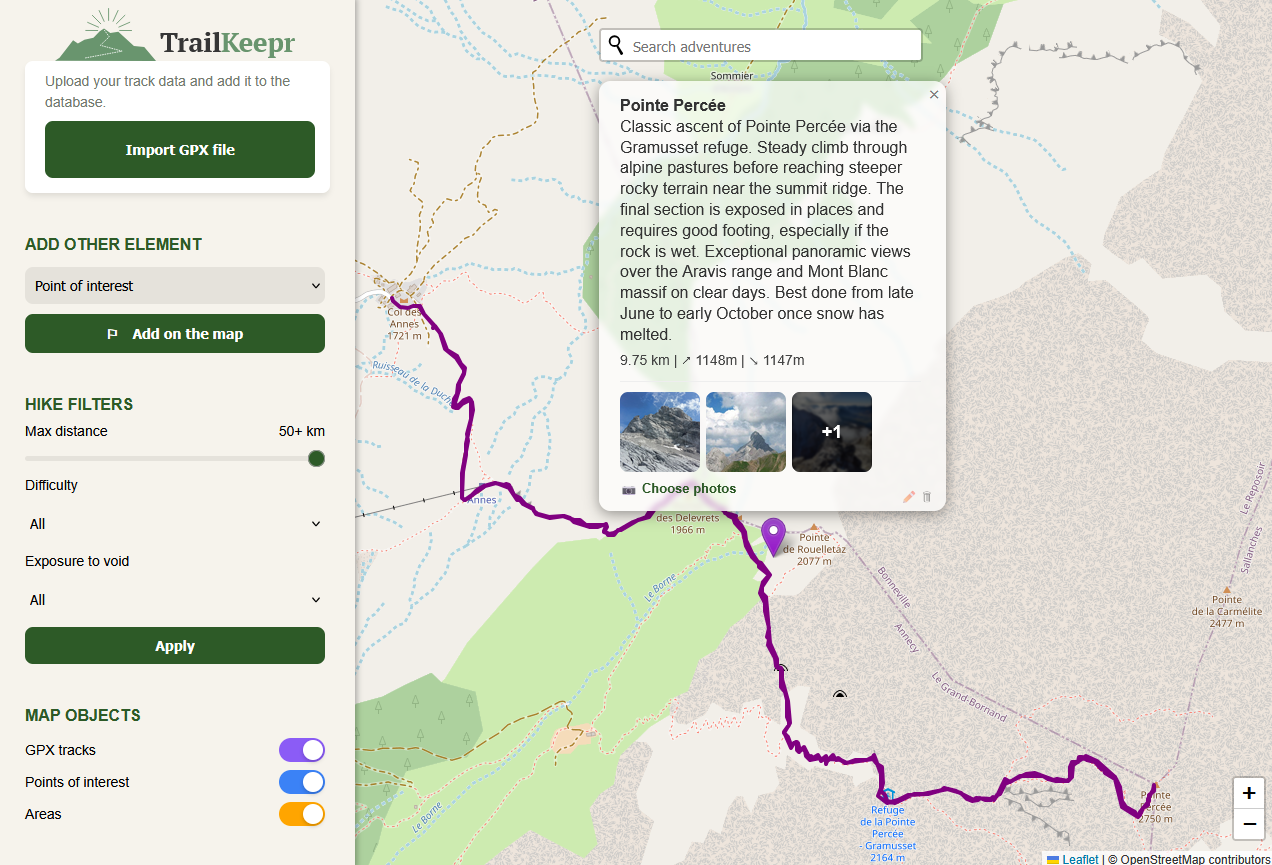
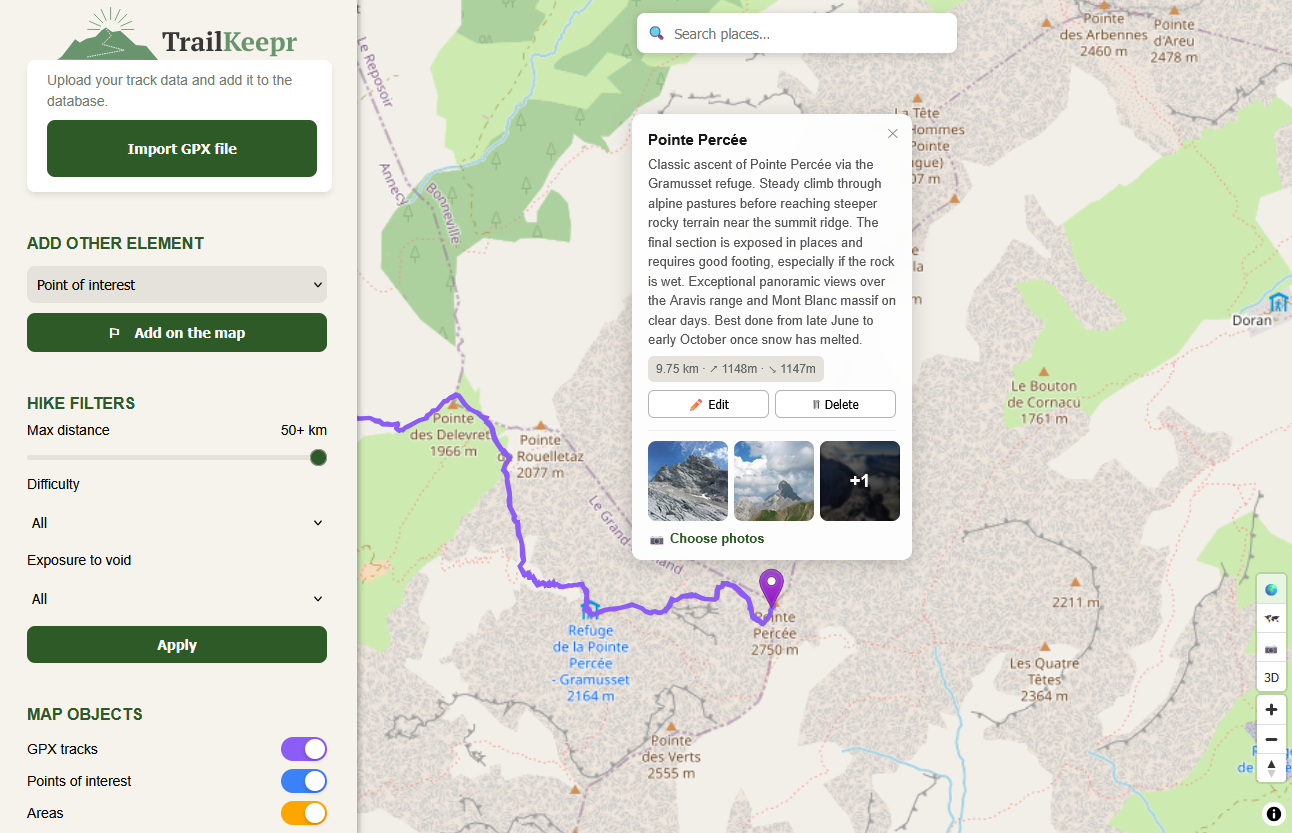
Updated Trailkeepr images + added 3D view

diff --git a/index.html b/index.html
@@ -137,7 +137,19 @@ In my spare time, I like building some side-projects such as my homelab. I also 
 				<i class="fa-solid fa-arrow-right" style="transform: rotate(-45deg);"></i>
 			</a>
         </h3>
-	    <img id="outdoorArchive" class="project-img" src="images/Trailkeepr_demo.png" alt="">
+        <table>
+            <tr>
+                <td>
+	                <img class="project-img" src="images/Trailkeepr_demo.png" alt="">
+                </td>
+                <td>
+                    &nbsp;
+                </td>
+                <td>
+	                <img class="project-img" src="images/Trailkeepr_demo_3d.png" alt="">
+                </td>
+            </tr>
+        </table>
         <p>
         A self-hosted web service designed to archive and explore hiking routes and outdoor places. It combines an interactive map interface with a spatial database to store GPX tracks, places or areas I visited.
         The backend is built with FastAPI and connects to a PostgreSQL database extended with PostGIS to handle geographic data. GPX files can be imported and parsed automatically to extract route geometry and elevation statistics. The Vue.js frontend uses Leaflet to build the interactive map.</p>

diff --git a/style.css b/style.css
@@ -127,6 +127,11 @@ li::marker {
     content: "> ";
 }
 
+table {
+    margin: auto;
+    border-collapse: collapse;
+}
+
 .main-container {
 	max-width: 850px;
 	margin: 0 auto;
@@ -482,6 +487,10 @@ li::marker {
 
     .lightbox-content {
         margin: 0px;
+    }
+
+    table, thead, tbody, th, td, tr {
+        display: block
     }
 }
 